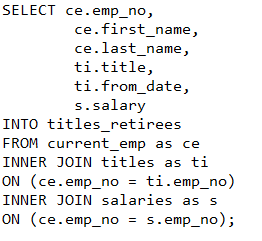
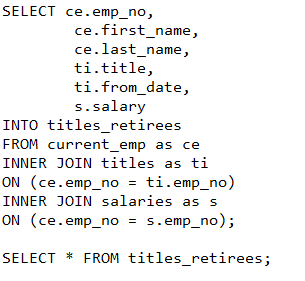
Adding Images

Changed region(s): [[0.0, 0.0, 0.916, 0.9585], [0.0, 0.4066, 0.1221, 0.4647], [0.7939, 0.8133, 0.8244, 0.8714]]

diff --git a/README.md b/README.md
@@ -1,28 +1,26 @@
 # Pewlett-Hackard-Analysis
 
 ## Project Overview
-
-
-## Database analysis for retirement
-
-Database analysis for the employees eligible for the retirement has been done. The retirement criterion was that the birth date of the 
+Database analysis for the employees eligible for the retirement has been carried out. The retirement criterion was that the birth date of the 
 employee should be between 1952 and 1955. And also the employee should be hired between 1985 and 1988.
 
-## Summary of results:
+## Software
+SQL, PostgreSQL, pgAdmin 
 
-## Number of individuals retiring 
+## Summary
+### Number of individuals retiring 
 There are 33118 current employees which are retiring  as per the above criterion.	
 	
 
-## Number of individuals being hired 
+### Number of individuals being hired 
 The number of individuals being hired should be ideally equal to the number of retirees (i.e.33118). But there should also be 
 some criterion for hiring as well.
 
-## Number of individuals available for mentorship role 
+### Number of individuals available for mentorship role 
 There are 1549 employees who are eligible for mentorship role.The mentorship criterion was that the employee should be born 
 in year 1965. 
 
-## Recommendation for further analysis on this data set	
+### Recommendation for further analysis on this data set	
 There should be some criterion for hiring individuals as well. Because with the change of time and the technology enhancement 
 or automation the company requirement changes. Also the current salary should be updated in the database after the employees's 
 promotion. 
@@ -35,11 +33,11 @@ promotion.
 
 	
 
-## Code for the requested queries, with examples of each output:
+## Code for the queries
 
 ### List of (titles) retiring employees
 
-- SELECT ce.emp_no,
+	SELECT ce.emp_no,
 	ce.first_name,
 	ce.last_name,
 	ti.title,
@@ -52,7 +50,7 @@ promotion.
 	INNER JOIN salaries as s
 	ON (ce.emp_no = s.emp_no);
 
-	--Refer to titles_retirees.csv in Data folder.
+	* Refer to titles_retirees.csv in Data folder.
 	SELECT * FROM titles_retirees;
 
 ### List of Only the Most Recent Titles
@@ -114,6 +112,8 @@ promotion.
 	SELECT * FROM mentor_table;
 
 ### List of mentors with their current titles
+![alt text](JPGS/ProcessFlow.png)
+
 
 	with my_table as (
 	SELECT *, row_number() OVER (Partition By first_name, last_name Order by from_date desc) as r_num
